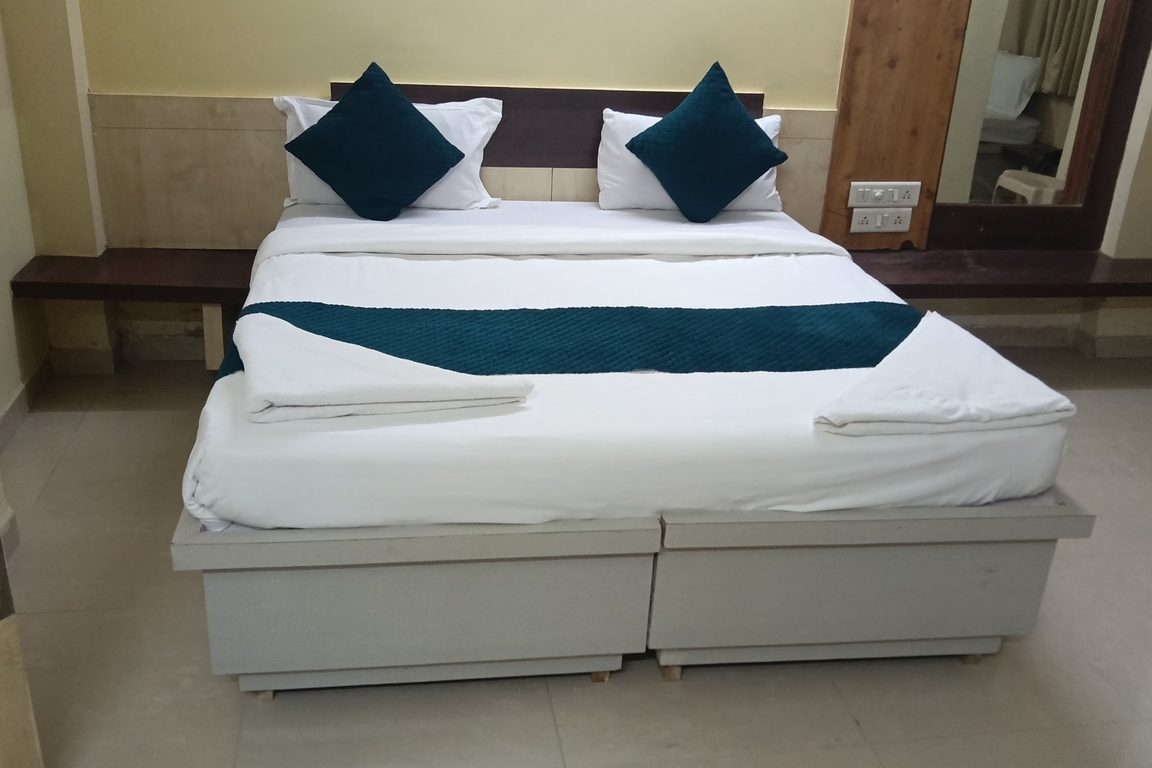
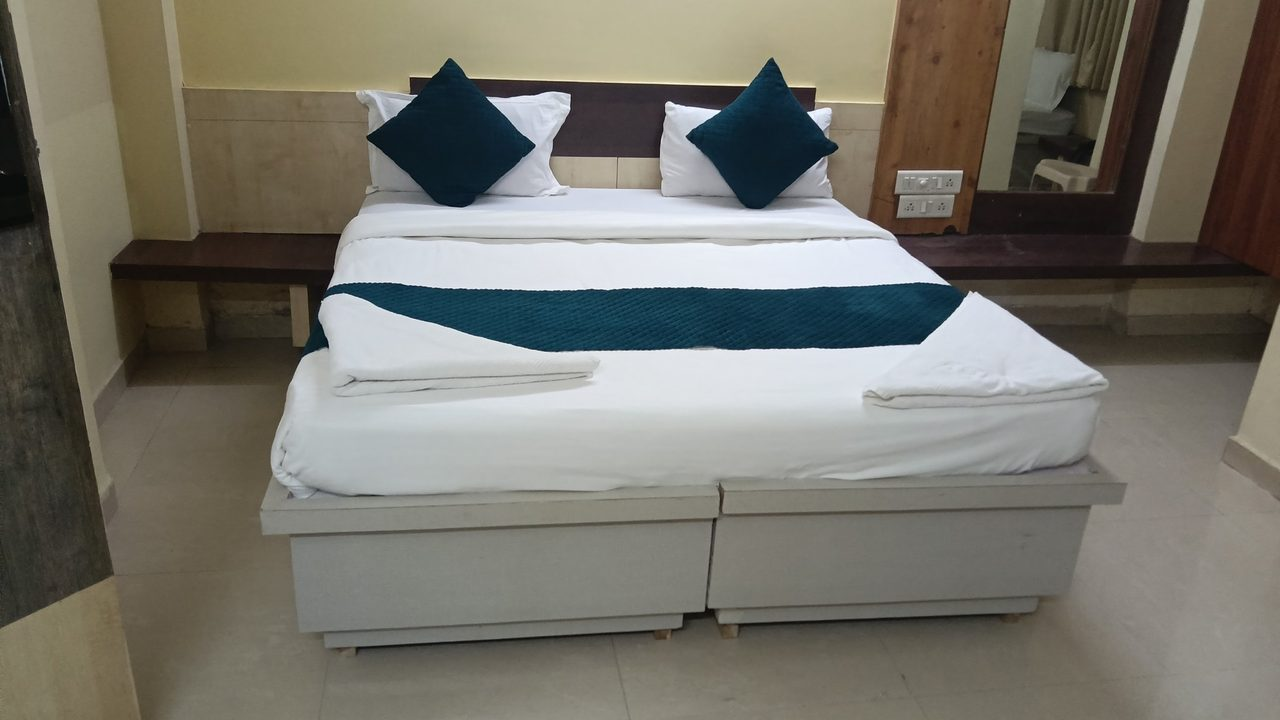
Show Premium room photos uncropped, at their full width
Claude-Session: https://claude.ai/code/session_01CSNy5cCc4duRTtLDDbotuK

diff --git a/404.html b/404.html
@@ -161,13 +161,13 @@ footer .wrap{display:flex;flex-wrap:wrap;gap:8px 24px;justify-content:space-betw
 /* rooms page */
 .rp{display:grid;gap:26px}
 .rp article{display:grid;grid-template-columns:minmax(0,1fr) minmax(0,1.1fr);gap:26px;background:var(--card);border:1px solid var(--line);border-radius:var(--r);overflow:hidden}
-.rp article>img{width:100%;height:auto;aspect-ratio:3/2;object-fit:cover;align-self:start;grid-column:1;grid-row:1}
+.rp article>img{width:100%;height:auto;align-self:start;grid-column:1;grid-row:1}
 .rp article>.body{grid-column:2;grid-row:1/span 2}
 .rp .body{padding:22px 22px 22px 0;display:grid;gap:12px;align-content:start}
 .rp table{border-collapse:collapse;width:100%;font-size:.95rem}
 .rp td,.rp th{padding:6px 0;border-bottom:1px solid var(--line);text-align:left;vertical-align:top}
 .rp th{width:40%;font-weight:600}
-@media (max-width:760px){.rp article{grid-template-columns:1fr}.rp article>img,.rp article>img.extra,.rp article>.body{grid-column:auto;grid-row:auto;margin-top:0}.rp .body{padding:0 18px 20px}}
+@media (max-width:760px){.rp article{grid-template-columns:1fr}.rp article>img,.rp article>img.extra,.rp article>.body{grid-column:auto;grid-row:auto;margin-top:0;aspect-ratio:auto}.rp .body{padding:0 18px 20px}}
 .sticky-wa{position:fixed;right:16px;bottom:calc(16px + env(safe-area-inset-bottom,0px));z-index:20;box-shadow:0 8px 24px rgba(0,0,0,.25)}
 @media (min-width:821px){.sticky-wa{display:none}}
 @media (max-width:820px){.sticky-wa{width:58px;height:58px;padding:0;border-radius:50%}.sticky-wa span{display:none}.sticky-wa svg{width:28px;height:28px}main{padding-bottom:70px}}

diff --git a/_source/style.css b/_source/style.css
@@ -150,13 +150,13 @@ footer .wrap{display:flex;flex-wrap:wrap;gap:8px 24px;justify-content:space-betw
 /* rooms page */
 .rp{display:grid;gap:26px}
 .rp article{display:grid;grid-template-columns:minmax(0,1fr) minmax(0,1.1fr);gap:26px;background:var(--card);border:1px solid var(--line);border-radius:var(--r);overflow:hidden}
-.rp article>img{width:100%;height:auto;aspect-ratio:3/2;object-fit:cover;align-self:start;grid-column:1;grid-row:1}
+.rp article>img{width:100%;height:auto;align-self:start;grid-column:1;grid-row:1}
 .rp article>.body{grid-column:2;grid-row:1/span 2}
 .rp .body{padding:22px 22px 22px 0;display:grid;gap:12px;align-content:start}
 .rp table{border-collapse:collapse;width:100%;font-size:.95rem}
 .rp td,.rp th{padding:6px 0;border-bottom:1px solid var(--line);text-align:left;vertical-align:top}
 .rp th{width:40%;font-weight:600}
-@media (max-width:760px){.rp article{grid-template-columns:1fr}.rp article>img,.rp article>img.extra,.rp article>.body{grid-column:auto;grid-row:auto;margin-top:0}.rp .body{padding:0 18px 20px}}
+@media (max-width:760px){.rp article{grid-template-columns:1fr}.rp article>img,.rp article>img.extra,.rp article>.body{grid-column:auto;grid-row:auto;margin-top:0;aspect-ratio:auto}.rp .body{padding:0 18px 20px}}
 .sticky-wa{position:fixed;right:16px;bottom:calc(16px + env(safe-area-inset-bottom,0px));z-index:20;box-shadow:0 8px 24px rgba(0,0,0,.25)}
 @media (min-width:821px){.sticky-wa{display:none}}
 @media (max-width:820px){.sticky-wa{width:58px;height:58px;padding:0;border-radius:50%}.sticky-wa span{display:none}.sticky-wa svg{width:28px;height:28px}main{padding-bottom:70px}}

diff --git a/index.html b/index.html
@@ -161,13 +161,13 @@ footer .wrap{display:flex;flex-wrap:wrap;gap:8px 24px;justify-content:space-betw
 /* rooms page */
 .rp{display:grid;gap:26px}
 .rp article{display:grid;grid-template-columns:minmax(0,1fr) minmax(0,1.1fr);gap:26px;background:var(--card);border:1px solid var(--line);border-radius:var(--r);overflow:hidden}
-.rp article>img{width:100%;height:auto;aspect-ratio:3/2;object-fit:cover;align-self:start;grid-column:1;grid-row:1}
+.rp article>img{width:100%;height:auto;align-self:start;grid-column:1;grid-row:1}
 .rp article>.body{grid-column:2;grid-row:1/span 2}
 .rp .body{padding:22px 22px 22px 0;display:grid;gap:12px;align-content:start}
 .rp table{border-collapse:collapse;width:100%;font-size:.95rem}
 .rp td,.rp th{padding:6px 0;border-bottom:1px solid var(--line);text-align:left;vertical-align:top}
 .rp th{width:40%;font-weight:600}
-@media (max-width:760px){.rp article{grid-template-columns:1fr}.rp article>img,.rp article>img.extra,.rp article>.body{grid-column:auto;grid-row:auto;margin-top:0}.rp .body{padding:0 18px 20px}}
+@media (max-width:760px){.rp article{grid-template-columns:1fr}.rp article>img,.rp article>img.extra,.rp article>.body{grid-column:auto;grid-row:auto;margin-top:0;aspect-ratio:auto}.rp .body{padding:0 18px 20px}}
 .sticky-wa{position:fixed;right:16px;bottom:calc(16px + env(safe-area-inset-bottom,0px));z-index:20;box-shadow:0 8px 24px rgba(0,0,0,.25)}
 @media (min-width:821px){.sticky-wa{display:none}}
 @media (max-width:820px){.sticky-wa{width:58px;height:58px;padding:0;border-radius:50%}.sticky-wa span{display:none}.sticky-wa svg{width:28px;height:28px}main{padding-bottom:70px}}

diff --git a/rooms.html b/rooms.html
@@ -161,13 +161,13 @@ footer .wrap{display:flex;flex-wrap:wrap;gap:8px 24px;justify-content:space-betw
 /* rooms page */
 .rp{display:grid;gap:26px}
 .rp article{display:grid;grid-template-columns:minmax(0,1fr) minmax(0,1.1fr);gap:26px;background:var(--card);border:1px solid var(--line);border-radius:var(--r);overflow:hidden}
-.rp article>img{width:100%;height:auto;aspect-ratio:3/2;object-fit:cover;align-self:start;grid-column:1;grid-row:1}
+.rp article>img{width:100%;height:auto;align-self:start;grid-column:1;grid-row:1}
 .rp article>.body{grid-column:2;grid-row:1/span 2}
 .rp .body{padding:22px 22px 22px 0;display:grid;gap:12px;align-content:start}
 .rp table{border-collapse:collapse;width:100%;font-size:.95rem}
 .rp td,.rp th{padding:6px 0;border-bottom:1px solid var(--line);text-align:left;vertical-align:top}
 .rp th{width:40%;font-weight:600}
-@media (max-width:760px){.rp article{grid-template-columns:1fr}.rp article>img,.rp article>img.extra,.rp article>.body{grid-column:auto;grid-row:auto;margin-top:0}.rp .body{padding:0 18px 20px}}
+@media (max-width:760px){.rp article{grid-template-columns:1fr}.rp article>img,.rp article>img.extra,.rp article>.body{grid-column:auto;grid-row:auto;margin-top:0;aspect-ratio:auto}.rp .body{padding:0 18px 20px}}
 .sticky-wa{position:fixed;right:16px;bottom:calc(16px + env(safe-area-inset-bottom,0px));z-index:20;box-shadow:0 8px 24px rgba(0,0,0,.25)}
 @media (min-width:821px){.sticky-wa{display:none}}
 @media (max-width:820px){.sticky-wa{width:58px;height:58px;padding:0;border-radius:50%}.sticky-wa span{display:none}.sticky-wa svg{width:28px;height:28px}main{padding-bottom:70px}}
